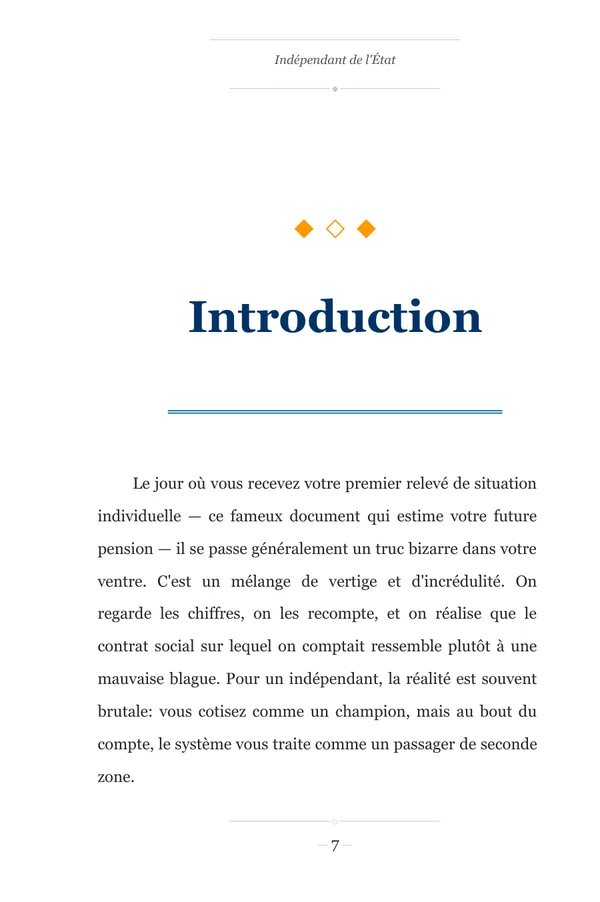
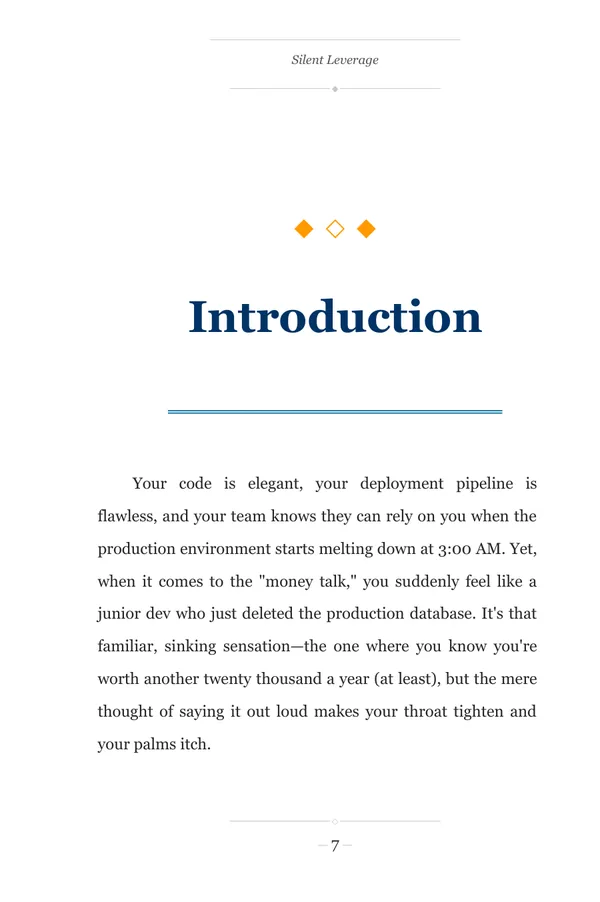
feat(home): swap the sample for a clean English book
Book 7b68aacb "Silent Leverage" (EN non-fiction, 132 pages: salary
negotiation for introverted software engineers), generated after today's
engine fixes (humanizer, layout, accents, blind word swaps). Most of the
ICP buys in English, and the previous French sample had unaccented
headings elsewhere in the book.

Shown: KDP wrap, front cover, page 7 (introduction) and page 13 (chapter 1
opener), each read in full before being picked. Copy in 4 locales
updated (FR/IT/DE notes say the sample is English). Images 168 KB,
intrinsic sizes declared; Lighthouse mobile 93, CLS 0.

Changed region(s): [[0.15, 0.5277, 0.9, 0.8692], [0.45, 0.0621, 0.66, 0.0931]]

diff --git a/app/home-content.ts b/app/home-content.ts
@@ -166,16 +166,16 @@ export const homeCopy: Record<Locale, HomeCopy> = {
     sample: {
       eyebrow: "A real book, not a mockup",
       h2: "One brief went in. This came out.",
-      sub: "Generated by DraftToDone from a single niche brief: retirement planning for the self-employed. The pages below are shown exactly as generated, not retouched.",
-      wrapAlt: "Full KDP paperback cover of Indépendant de l'État: back cover text, spine with title and author, and front cover with a gold compass over a rising arrow",
+      sub: "Generated by DraftToDone from a single niche brief: salary negotiation for introverted software engineers. The pages below are shown exactly as generated, not retouched.",
+      wrapAlt: "Full KDP paperback cover of Silent Leverage: back cover text, spine with title and author, and a teal front cover with a keyboard under a rising growth chart",
       wrapCaption: "The KDP cover PDF: back, spine and front, sized for the page count",
       pages: [
-        { src: "/sample/cover.webp", alt: "Front cover of Indépendant de l'État by Julien Mercier", caption: "Front cover" },
-        { src: "/sample/page-1.webp", alt: "Title page of the interior PDF: title, subtitle and pen name", caption: "Title page" },
+        { src: "/sample/cover.webp", alt: "Front cover of Silent Leverage by Nathaniel Reed", caption: "Front cover" },
         { src: "/sample/page-7.webp", alt: "Page 7 of the interior PDF: the opening of the introduction", caption: "Page 7, the introduction" },
+        { src: "/sample/page-13.webp", alt: "Page 13 of the interior PDF: the opening page of chapter 1", caption: "Page 13, chapter 1" },
       ],
-      facts: ["202-page 6×9 interior PDF", "Editable Word manuscript", "Front cover + full KDP wrap", "Description, 7 keywords, 3 categories", "Invented pen name"],
-      note: "This sample is in French. The pen name was invented by the engine. Review every book before you publish it.",
+      facts: ["132-page 6×9 interior PDF", "Editable Word manuscript", "Front cover + full KDP wrap", "Description, 7 keywords, 3 categories", "Invented pen name"],
+      note: "The pen name was invented by the engine. Review every book before you publish it.",
       cta: "Generate my book",
     },
     proof: {
@@ -313,16 +313,16 @@ export const homeCopy: Record<Locale, HomeCopy> = {
     sample: {
       eyebrow: "Un vrai livre, pas une maquette",
       h2: "Un brief en entrée. Voici ce qui en est sorti.",
-      sub: "Généré par DraftToDone à partir d'un seul brief de niche : préparer sa retraite quand on est indépendant. Les pages ci-dessous sont montrées telles que générées, sans retouche.",
-      wrapAlt: "Couverture KDP complète d'Indépendant de l'État : texte de quatrième, tranche avec titre et auteur, et première de couverture avec une boussole dorée sur une flèche montante",
+      sub: "Généré par DraftToDone à partir d'un seul brief de niche : négocier son salaire quand on est un ingénieur logiciel introverti. Les pages ci-dessous sont montrées telles que générées, sans retouche.",
+      wrapAlt: "Couverture KDP complète de Silent Leverage : texte de quatrième, tranche avec titre et auteur, et première de couverture bleu-vert avec un clavier sous une courbe de croissance",
       wrapCaption: "Le PDF de couverture KDP : quatrième, tranche et première, calculés pour le nombre de pages",
       pages: [
-        { src: "/sample/cover.webp", alt: "Première de couverture d'Indépendant de l'État, par Julien Mercier", caption: "Première de couverture" },
-        { src: "/sample/page-1.webp", alt: "Page de titre du PDF intérieur : titre, sous-titre et nom de plume", caption: "Page de titre" },
+        { src: "/sample/cover.webp", alt: "Première de couverture de Silent Leverage, par Nathaniel Reed", caption: "Première de couverture" },
         { src: "/sample/page-7.webp", alt: "Page 7 du PDF intérieur : le début de l'introduction", caption: "Page 7, l'introduction" },
+        { src: "/sample/page-13.webp", alt: "Page 13 du PDF intérieur : l'ouverture du chapitre 1", caption: "Page 13, le chapitre 1" },
       ],
-      facts: ["PDF intérieur 6×9 de 202 pages", "Manuscrit Word modifiable", "Couverture + PDF KDP complet", "Description, 7 mots-clés, 3 catégories", "Nom de plume inventé"],
-      note: "Le nom de plume a été inventé par le moteur. Relisez chaque livre avant de le publier.",
+      facts: ["PDF intérieur 6×9 de 132 pages", "Manuscrit Word modifiable", "Couverture + PDF KDP complet", "Description, 7 mots-clés, 3 catégories", "Nom de plume inventé"],
+      note: "Cet exemple est en anglais ; DraftToDone écrit aussi en français. Le nom de plume a été inventé par le moteur. Relisez chaque livre avant de le publier.",
       cta: "Générer mon livre",
     },
     proof: {
@@ -460,16 +460,16 @@ export const homeCopy: Record<Locale, HomeCopy> = {
     sample: {
       eyebrow: "Un libro vero, non un mockup",
       h2: "È entrato un brief. È uscito questo.",
-      sub: "Generato da DraftToDone a partire da un solo brief di nicchia: preparare la pensione da lavoratore autonomo. Le pagine qui sotto sono mostrate così come generate, senza ritocchi.",
-      wrapAlt: "Copertina KDP completa di Indépendant de l'État: testo di quarta, dorso con titolo e autore, e prima di copertina con una bussola dorata su una freccia in salita",
+      sub: "Generato da DraftToDone a partire da un solo brief di nicchia: negoziare lo stipendio per ingegneri software introversi. Le pagine qui sotto sono mostrate così come generate, senza ritocchi.",
+      wrapAlt: "Copertina KDP completa di Silent Leverage: testo di quarta, dorso con titolo e autore, e prima di copertina verde acqua con una tastiera sotto un grafico in crescita",
       wrapCaption: "Il PDF di copertina KDP: quarta, dorso e prima, calcolati sul numero di pagine",
       pages: [
-        { src: "/sample/cover.webp", alt: "Prima di copertina di Indépendant de l'État, di Julien Mercier", caption: "Prima di copertina" },
-        { src: "/sample/page-1.webp", alt: "Frontespizio del PDF interno: titolo, sottotitolo e pseudonimo", caption: "Frontespizio" },
+        { src: "/sample/cover.webp", alt: "Prima di copertina di Silent Leverage, di Nathaniel Reed", caption: "Prima di copertina" },
         { src: "/sample/page-7.webp", alt: "Pagina 7 del PDF interno: l'inizio dell'introduzione", caption: "Pagina 7, l'introduzione" },
+        { src: "/sample/page-13.webp", alt: "Pagina 13 del PDF interno: l'apertura del capitolo 1", caption: "Pagina 13, il capitolo 1" },
       ],
-      facts: ["PDF interno 6×9 di 202 pagine", "Manoscritto Word modificabile", "Copertina + PDF KDP completo", "Descrizione, 7 keyword, 3 categorie", "Pseudonimo inventato"],
-      note: "Questo esempio è in francese. Lo pseudonimo è stato inventato dal motore. Rileggi ogni libro prima di pubblicarlo.",
+      facts: ["PDF interno 6×9 di 132 pagine", "Manoscritto Word modificabile", "Copertina + PDF KDP completo", "Descrizione, 7 keyword, 3 categorie", "Pseudonimo inventato"],
+      note: "Questo esempio è in inglese. Lo pseudonimo è stato inventato dal motore. Rileggi ogni libro prima di pubblicarlo.",
       cta: "Genera il mio libro",
     },
     proof: {
@@ -607,16 +607,16 @@ export const homeCopy: Record<Locale, HomeCopy> = {
     sample: {
       eyebrow: "Ein echtes Buch, kein Mockup",
       h2: "Ein Briefing hinein. Das kam heraus.",
-      sub: "Von DraftToDone aus einem einzigen Nischen-Briefing erzeugt: Altersvorsorge für Selbstständige. Die Seiten unten werden so gezeigt, wie sie erzeugt wurden, ohne Nachbearbeitung.",
-      wrapAlt: "Vollständiges KDP-Cover von Indépendant de l'État: Rückseitentext, Buchrücken mit Titel und Autor und Vorderseite mit einem goldenen Kompass über einem steigenden Pfeil",
+      sub: "Von DraftToDone aus einem einzigen Nischen-Briefing erzeugt: Gehaltsverhandlung für introvertierte Softwareentwickler. Die Seiten unten werden so gezeigt, wie sie erzeugt wurden, ohne Nachbearbeitung.",
+      wrapAlt: "Vollständiges KDP-Cover von Silent Leverage: Rückseitentext, Buchrücken mit Titel und Autor und eine petrolfarbene Vorderseite mit einer Tastatur unter einer steigenden Wachstumskurve",
       wrapCaption: "Das KDP-Cover-PDF: Rückseite, Buchrücken und Vorderseite, passend zur Seitenzahl",
       pages: [
-        { src: "/sample/cover.webp", alt: "Vorderseite von Indépendant de l'État, von Julien Mercier", caption: "Vorderseite" },
-        { src: "/sample/page-1.webp", alt: "Titelseite des Innenteil-PDFs: Titel, Untertitel und Pseudonym", caption: "Titelseite" },
+        { src: "/sample/cover.webp", alt: "Vorderseite von Silent Leverage, von Nathaniel Reed", caption: "Vorderseite" },
         { src: "/sample/page-7.webp", alt: "Seite 7 des Innenteil-PDFs: der Anfang der Einleitung", caption: "Seite 7, die Einleitung" },
+        { src: "/sample/page-13.webp", alt: "Seite 13 des Innenteil-PDFs: die Eröffnungsseite von Kapitel 1", caption: "Seite 13, Kapitel 1" },
       ],
-      facts: ["202-seitiges 6×9-Innenteil-PDF", "Bearbeitbares Word-Manuskript", "Cover + vollständiges KDP-PDF", "Beschreibung, 7 Keywords, 3 Kategorien", "Erfundenes Pseudonym"],
-      note: "Dieses Beispiel ist auf Französisch. Das Pseudonym hat die Engine erfunden. Prüfen Sie jedes Buch, bevor Sie es veröffentlichen.",
+      facts: ["132-seitiges 6×9-Innenteil-PDF", "Bearbeitbares Word-Manuskript", "Cover + vollständiges KDP-PDF", "Beschreibung, 7 Keywords, 3 Kategorien", "Erfundenes Pseudonym"],
+      note: "Dieses Beispiel ist auf Englisch. Das Pseudonym hat die Engine erfunden. Prüfen Sie jedes Buch, bevor Sie es veröffentlichen.",
       cta: "Mein Buch erzeugen",
     },
     proof: {

diff --git a/app/home-view.tsx b/app/home-view.tsx
@@ -249,12 +249,12 @@ function ProductDemo({ demo }: { demo: HomeCopy["demo"] }) {
 // their space before they load (no layout shift).
 const SAMPLE_IMAGE_SIZES: Record<string, [number, number]> = {
   "/sample/cover.webp": [640, 954],
-  "/sample/page-1.webp": [600, 902],
   "/sample/page-7.webp": [600, 902],
+  "/sample/page-13.webp": [600, 902],
 };
 
 function SampleSection({ sample }: { sample: HomeCopy["sample"] }) {
-  // Real output from book 47b956ce (public/sample), exported from its PDFs
+  // Real output from book 7b68aacb (public/sample), exported from its PDFs
   // without retouching. Images are lazy: the section sits below the fold.
   return (
     <section id="sample" className="relative border-t border-line/70">
@@ -285,7 +285,7 @@ function SampleSection({ sample }: { sample: HomeCopy["sample"] }) {
               src="/sample/wrap.webp"
               alt={sample.wrapAlt}
               width={1400}
-              height={1020}
+              height={1032}
               loading="lazy"
               decoding="async"
               className="h-auto w-full rounded-lg"
